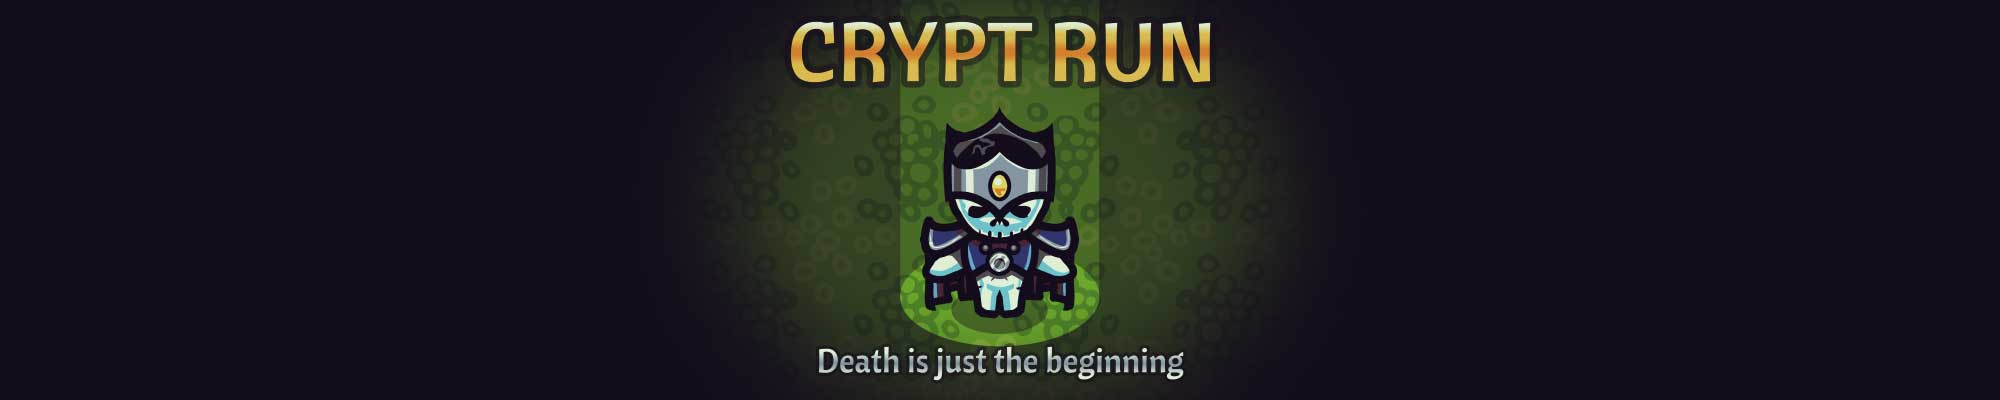
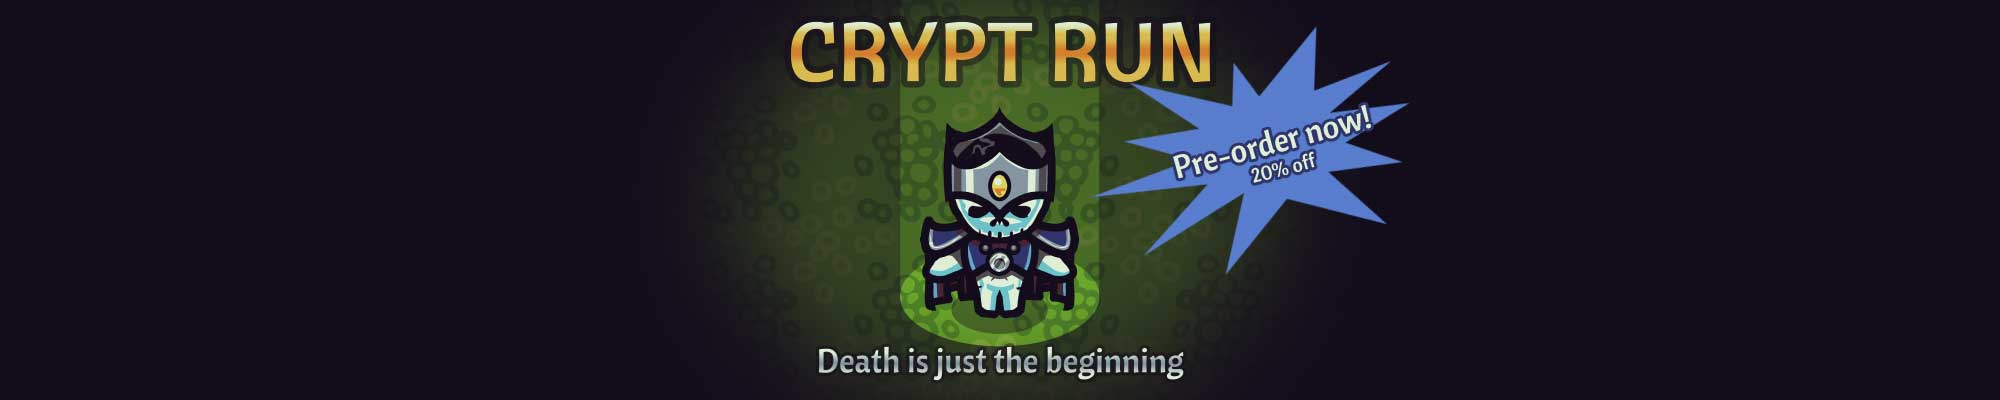
crypt run kickstarter -> preorders

Changed region(s): [[0.558, 0.09, 0.713, 0.66], [0.527, 0.48, 0.558, 0.51]]

diff --git a/_posts/2011-08-29-how-to-make-a-simple-html5-canvas-game.html b/_posts/2011-08-29-how-to-make-a-simple-html5-canvas-game.html
@@ -284,12 +284,16 @@ setInterval(main, 1); // Execute as fast as possible
 	<a href="https://github.com/lostdecade/simple_canvas_game">fork</a> the code on GitHub and get started hacking.
 </p>
 
-<h2>Play our new game Crypt Run</h2>
+<h2>Play our work-in-progress Crypt Run!</h2>
 
 <p>
-	What to see what HTML5 can really do? <a href="http://cryptrun.lostdecadegames.com/">Play</a> Crypt Run and <a href="http://www.kickstarter.com/projects/richtaur/crypt-run-death-is-just-the-beginning">back it on Kickstarter</a>!
+	What to see what HTML5 can really do? <a href="http://cryptrun.lostdecadegames.com/">Play Crypt Run</a> and <a href="http://www.cryptrun.com/">pre-order a copy</a>!
 </p>
 
 <div class="full-frame">
-	<iframe width="480" height="360" src="http://www.kickstarter.com/projects/richtaur/crypt-run-death-is-just-the-beginning/widget/video.html" frameborder="0"> </iframe>
+	<iframe
+		class="humble-widget" width="550" height="264"
+		scrolling="no" frameBorder="0"
+		src="http://www.humblebundle.com/store/product/cryptrun_alpha/Cdy6Dgsy3Fts">
+	</iframe>
 </div>
